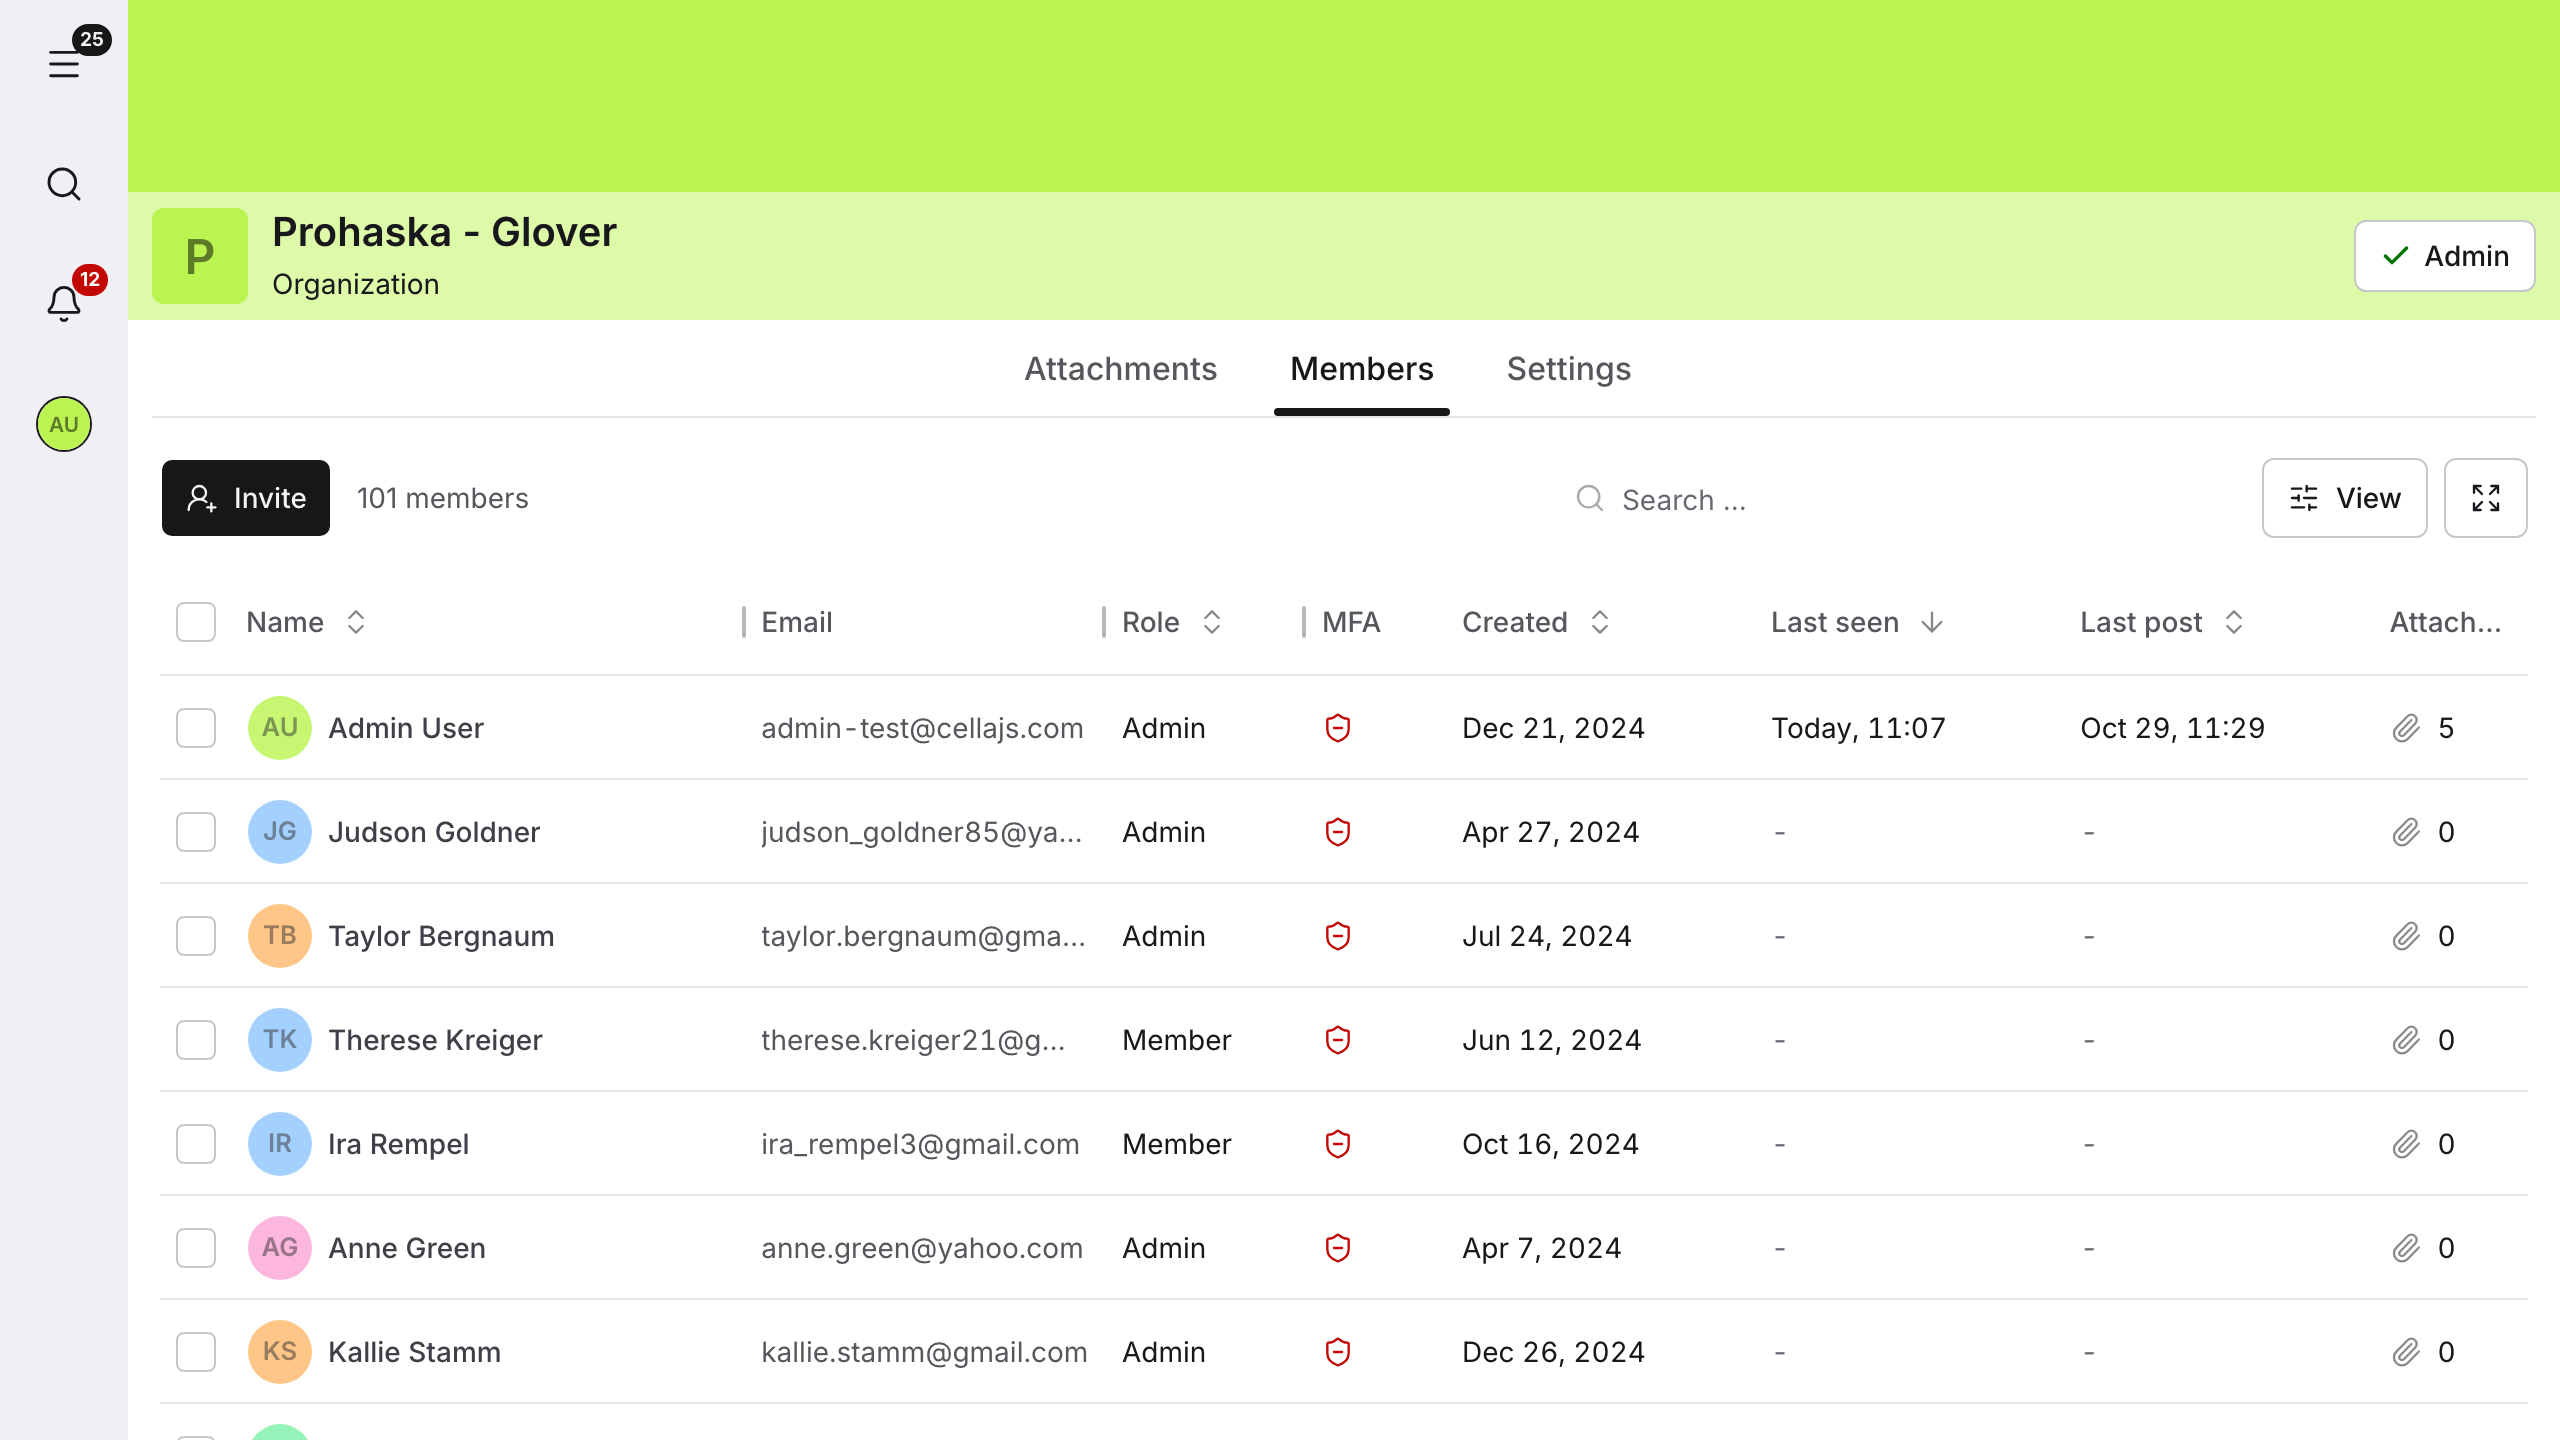
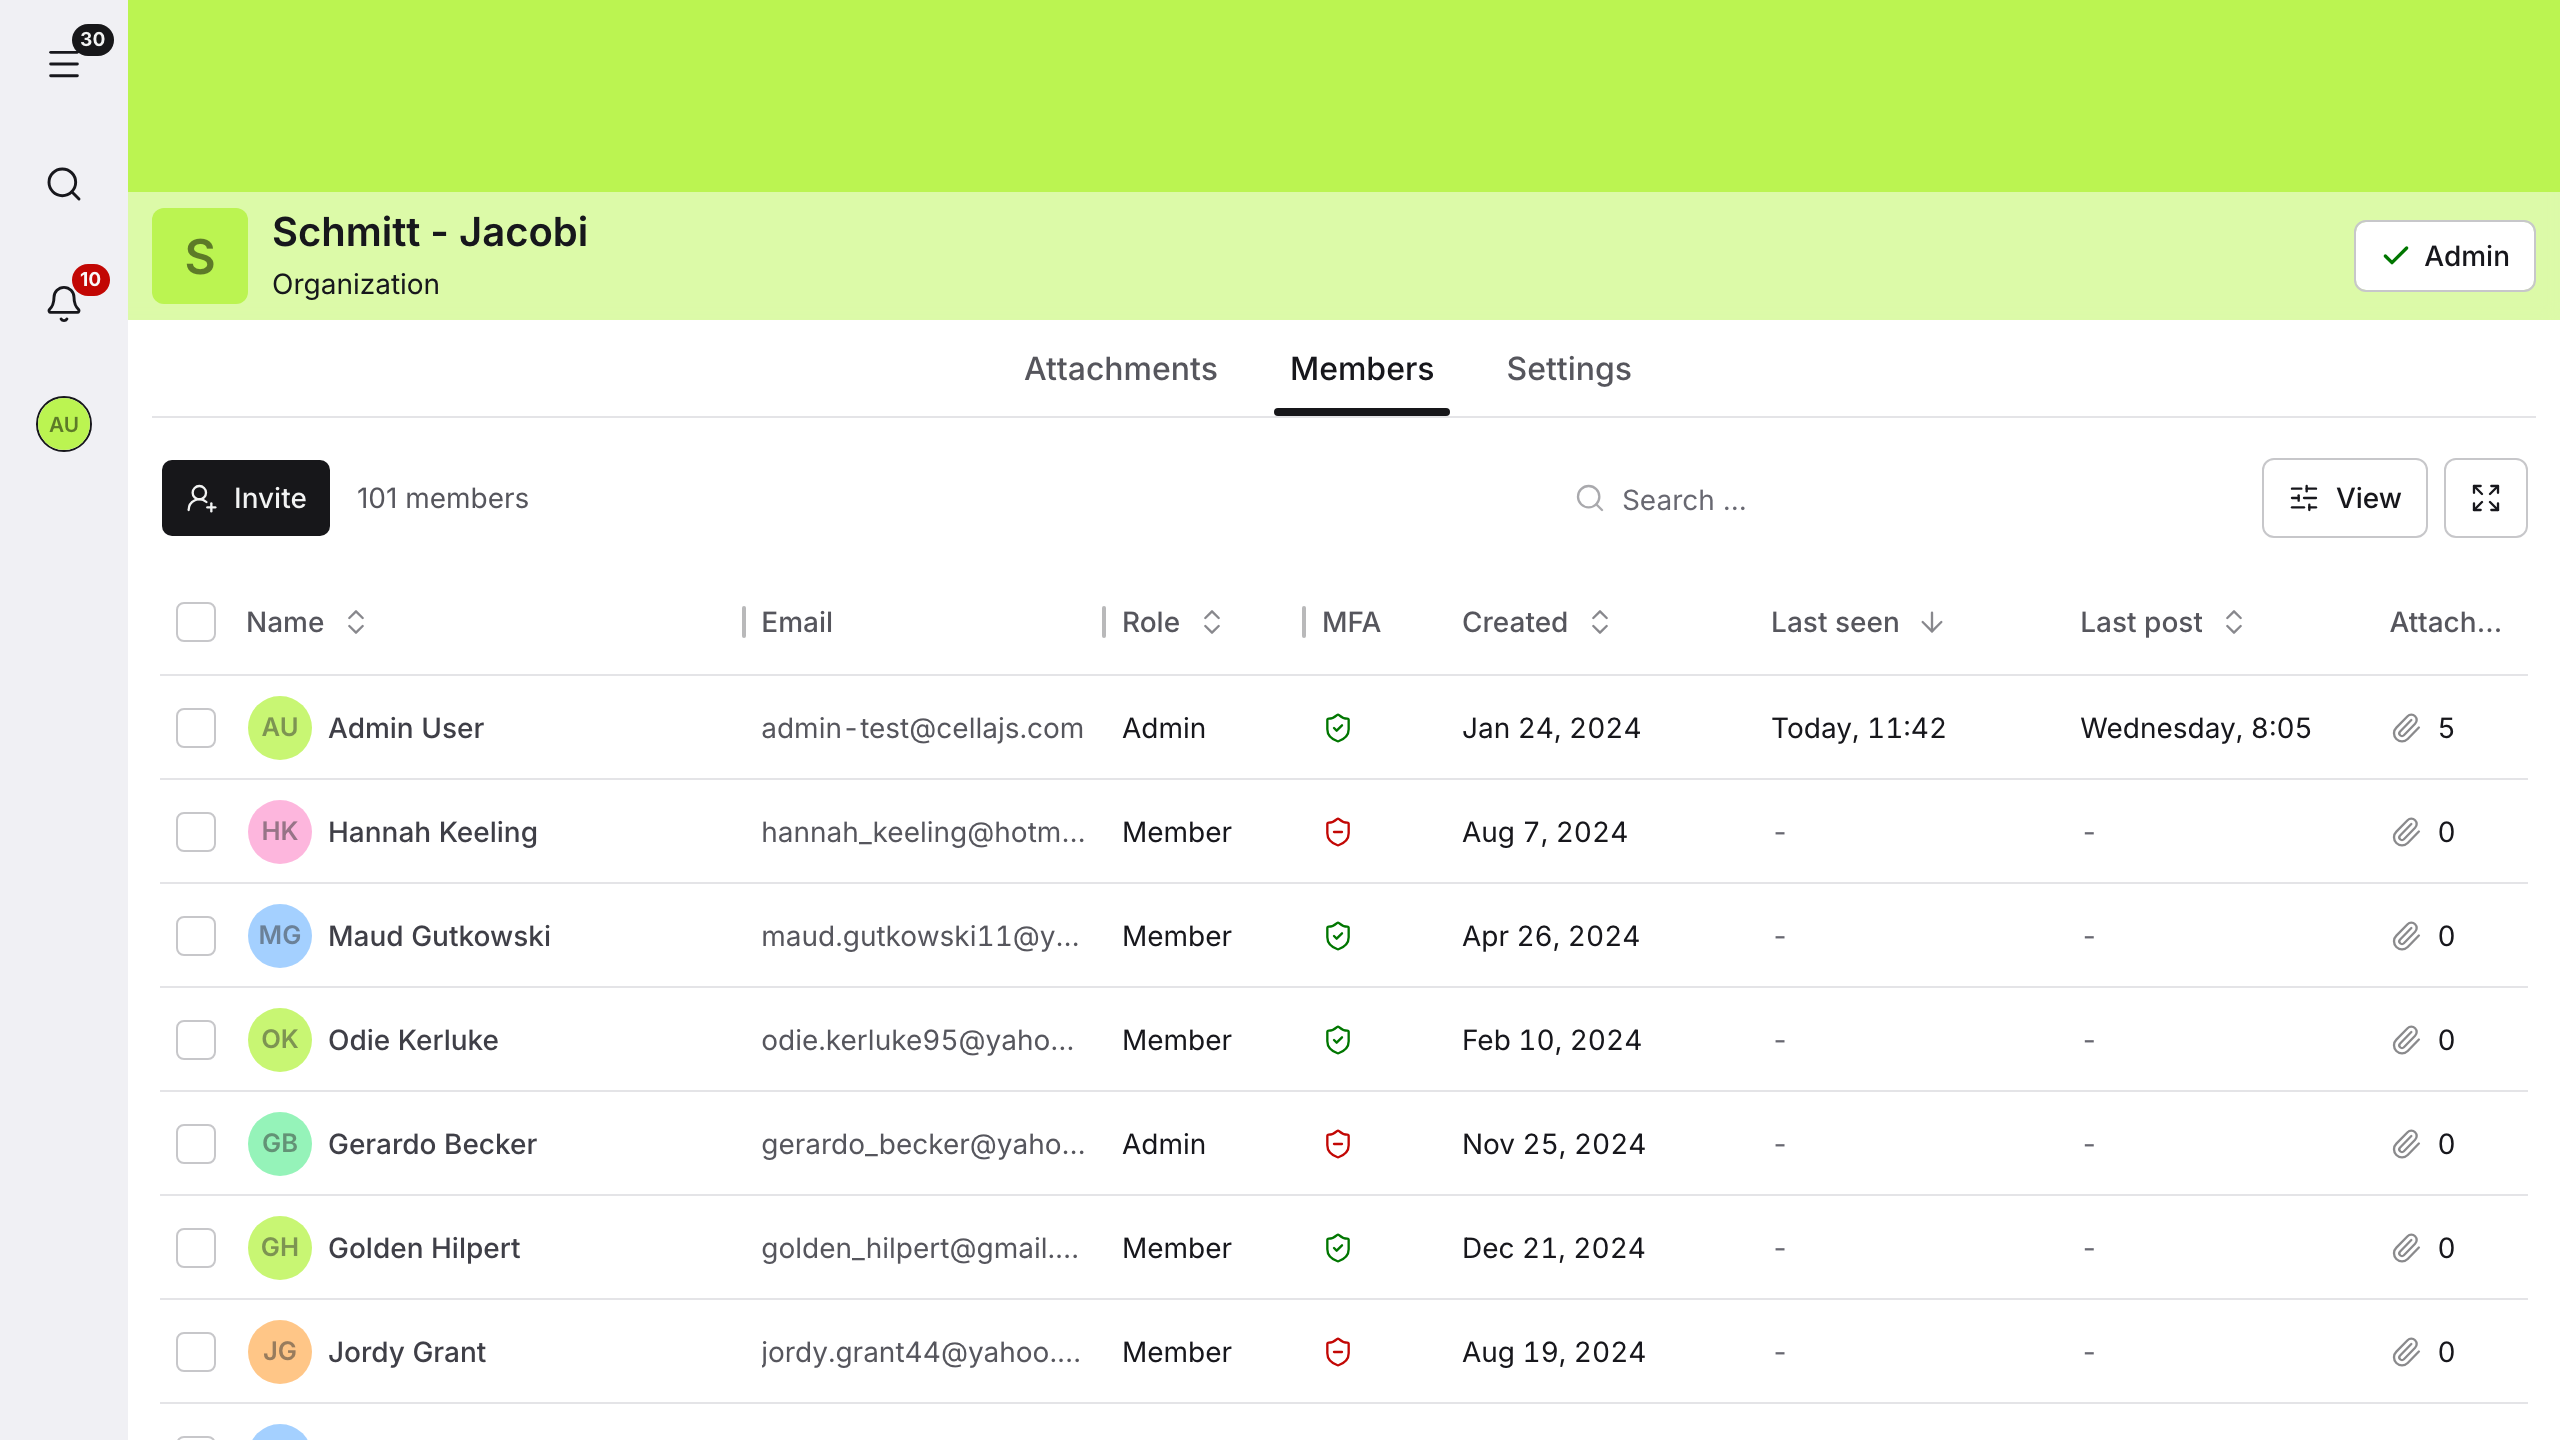
feat(marketing): the screenshot driver turns MFA on for its shots
On a throwaway database the driver runs `pnpm --filter backend showcase:mfa`, which gives the
shot user a passkey and an authenticator app that only show, and turns MFA on for a share
of their members, so the account page and member tables show both states. It refuses the
database backend/.env names. The settings shot takes a smaller scroll margin for the taller
card (alignment 20261106T1046-shots-mfa-showcase), and the affected shots are re-shot.

diff --git a/backend/scripts/showcase-mfa.ts b/backend/scripts/showcase-mfa.ts
@@ -1,0 +1,83 @@
+import { getRandomValues } from 'node:crypto';
+import { existsSync, readFileSync } from 'node:fs';
+import { parseEnv } from 'node:util';
+import { and, eq, inArray, ne } from 'drizzle-orm';
+import { appConfig } from 'shared';
+import { localDatabaseUrl } from 'shared/local-database';
+import { getSeedDb } from '#/db/db';
+import { env } from '#/env';
+import { passkeysTable } from '#/modules/auth/passkeys/passkeys-db';
+import { findTotp, insertTotp } from '#/modules/auth/totps/totps-queries';
+import { membershipsTable } from '#/modules/memberships/memberships-db';
+import { emailsTable } from '#/modules/user/emails-db';
+import { updateUserMfa } from '#/modules/user/user-queries';
+import { encodeBase32 } from '#/utils/base32';
+
+/**
+ * Turns MFA on for a user, with a passkey and an authenticator app that exist only to be shown, and for a share of the
+ * members of their organizations, so the marketing screenshots show both MFA states. The passkey answers no sign-in and
+ * nobody holds the authenticator's secret: on the database a developer signs in to, it locks their account out, so it
+ * refuses the one `backend/.env` names. The screenshots skill runs it against a throwaway database.
+ *
+ * Usage: pnpm --filter backend showcase:mfa <email>
+ */
+const [email] = process.argv.slice(2);
+
+const envFile = new URL('../.env', import.meta.url);
+const fileEnv = existsSync(envFile) ? parseEnv(readFileSync(envFile, 'utf8')) : {};
+const ownDatabase = fileEnv.DATABASE_ADMIN_URL ?? localDatabaseUrl('dev', 'postgres');
+
+if (appConfig.mode !== 'development') {
+  console.error(`Refusing to turn MFA on in ${appConfig.mode} mode.`);
+  process.exit(1);
+}
+if (env.DATABASE_ADMIN_URL === ownDatabase) {
+  console.error('Refusing the database backend/.env names: set DATABASE_ADMIN_URL to a throwaway one.');
+  process.exit(1);
+}
+if (!email) {
+  console.error('Usage: pnpm --filter backend showcase:mfa <email>');
+  process.exit(1);
+}
+
+const db = getSeedDb();
+
+const [owner] = await db.select({ userId: emailsTable.userId }).from(emailsTable).where(eq(emailsTable.email, email));
+if (!owner) {
+  console.error(`No user holds ${email}.`);
+  process.exit(1);
+}
+const { userId } = owner;
+const randomKey = () => encodeBase32(getRandomValues(new Uint8Array(20)));
+
+await db
+  .insert(passkeysTable)
+  .values({
+    userId,
+    credentialId: `showcase-${userId}`,
+    publicKey: randomKey(),
+    deviceName: 'MacBook Pro',
+    deviceType: 'desktop',
+    deviceOs: 'macOS',
+    browser: 'Chrome',
+    nameOnDevice: `${email} (Swift Phoenix)`,
+  })
+  .onConflictDoNothing({ target: passkeysTable.credentialId });
+
+const ctx = { var: { db } };
+// Last used two hours ago: the account page shows the step as a date, and step 0 reads as 1970
+const lastUsedStep = Math.floor((Date.now() - 2 * 60 * 60 * 1000) / 1000 / appConfig.totp.intervalInSeconds);
+if (!(await findTotp(ctx, { userId }))) await insertTotp(ctx, { userId, secret: randomKey(), lastUsedStep });
+await updateUserMfa(ctx, { id: userId, mfaRequired: true });
+
+// The last hex digit of a UUID v7 is random: below 6 picks 6 in 16 members, the same ones on every run
+const ownOrganizations = db.select({ id: membershipsTable.organizationId }).from(membershipsTable).where(eq(membershipsTable.userId, userId));
+const members = await db
+  .selectDistinct({ id: membershipsTable.userId })
+  .from(membershipsTable)
+  .where(and(inArray(membershipsTable.organizationId, ownOrganizations), ne(membershipsTable.userId, userId)));
+const picked = members.map(({ id }) => id).filter((id) => Number.parseInt(id.slice(-1), 16) < 6);
+for (const id of picked) await updateUserMfa(ctx, { id, mfaRequired: true });
+
+console.info(`MFA on for ${email} (a passkey and an authenticator app) and ${picked.length} of ${members.length} members.`);
+process.exit(0);

diff --git a/cella/alignments/20261106T1046-shots-mfa-showcase/README.md b/cella/alignments/20261106T1046-shots-mfa-showcase/README.md
@@ -1,0 +1,42 @@
+---
+breaking: true
+clientCacheBump: false
+caughtBy: nothing
+grep: scrollMarginTop, spy-authentication-anchor-wrap
+---
+
+# The screenshot driver turns MFA on, so the settings shot frames a taller card
+
+On a throwaway database the screenshot driver now runs `pnpm --filter backend showcase:mfa`, which turns MFA on for the
+shot user with a passkey and an authenticator app, and for a share of their organizations' members. The authentication
+card on the account page grows by those two rows, so a `settings` shot in the app-owned
+`cella/skills/screenshots/shots-config.mjs` that scrolls it in with `scrollMarginTop = '3rem'` cuts the next card's
+description at the bottom edge. Set the margin to `'1.5rem'`.
+
+## What & why
+
+Marketing shots showed MFA off everywhere: the account page with empty passkey and authenticator rows, and a red shield
+on every member. The driver step (`shot-driver.mjs`) adds factors that exist only to be shown, on a throwaway database
+only. The `settings` entry in the app's `shots-config.mjs` keeps the margin chosen for the shorter card.
+
+## Blast radius
+
+An app whose `shots-config.mjs` holds the template's `settings` shot (projectcampus does) and shoots from a throwaway
+database. No wire, database or cache change. A run against the database `backend/.env` names leaves MFA off.
+
+## Run
+
+No script: manual.
+
+## Manual steps
+
+1. In `cella/skills/screenshots/shots-config.mjs`, set `scrollMarginTop` in the `settings` shot's `open` to `'1.5rem'`.
+
+## Verify
+
+Re-shoot it (`node cella/skills/screenshots/shot-driver.mjs settings` through the throwaway exports) and check that the
+frame ends below the next card's description.
+
+```sh
+pnpm check
+```

diff --git a/backend/scripts/README.md b/backend/scripts/README.md
@@ -10,6 +10,7 @@ Development and build scripts for the backend.
 - **upload-seed-assets.ts** (`pnpm seed:assets`) - Publishes `seeds/assets/` to the public bucket under an immutable version prefix and writes `seeds/seed-assets.json`, the manifest the attachment seed reads. Needs `S3_ACCESS_KEY_ID`; `--check` verifies the published set anonymously and needs nothing
 - **set-bucket-cors.ts** (`pnpm s3:cors [origins]`) - Adds the frontend origin, or a comma-separated list, to browser CORS on the shared development buckets. It keeps the origins already allowed and prints the full list after the run
 - **mint-session.ts** (`pnpm session:mint <email> [hours]`) - Mints a session for a local user and prints its signed cookie and a curl line, for driving the app without signing in. The user's sessions list names it `session:mint`, and each run deletes the ended mints of earlier runs. Development and test mode only; a hand-built cookie never authenticates, since every mode signs cookies
+- **showcase-mfa.ts** (`pnpm showcase:mfa <email>`) - Turns MFA on for a user, with a passkey and an authenticator app that only show, and for a share of the members of their organizations, so the marketing screenshots show both MFA states. Nobody can sign in with those factors, so it refuses the database `backend/.env` names: the screenshots driver runs it on a throwaway one
 
 ## Folders
 

diff --git a/cella/skills/screenshots/SKILL.md b/cella/skills/screenshots/SKILL.md
@@ -30,7 +30,10 @@ A development database that has been worked in fails the data check below: bench
 dozens of sessions. Reseeding it costs you that data, so shoot from a throwaway one: start the stack of
 [A throwaway database](../verify/SKILL.md#a-throwaway-database) in the verify skill and run
 `node cella/skills/screenshots/shot-driver.mjs` through the same exports. The driver's first line prints the
-origin it shoots: it must be the shifted one.
+origin it shoots: it must be the shifted one. On that database the driver also turns MFA on for the shot user, with a
+passkey and an authenticator app that exist only to be shown, and for a share of their organizations' members
+(`pnpm --filter backend showcase:mfa`), so the account page and the member tables show both states. Nobody can sign in
+with those factors, so it leaves the database `backend/.env` names alone.
 
 That stack starts no relay, so a shot of a collaborative description reads "Connecting...": start `src/yjs-worker.ts` in
 `yjs/` through the same exports. An app's seed can be heavy and a second stack slows the first, so shoot one app at a
